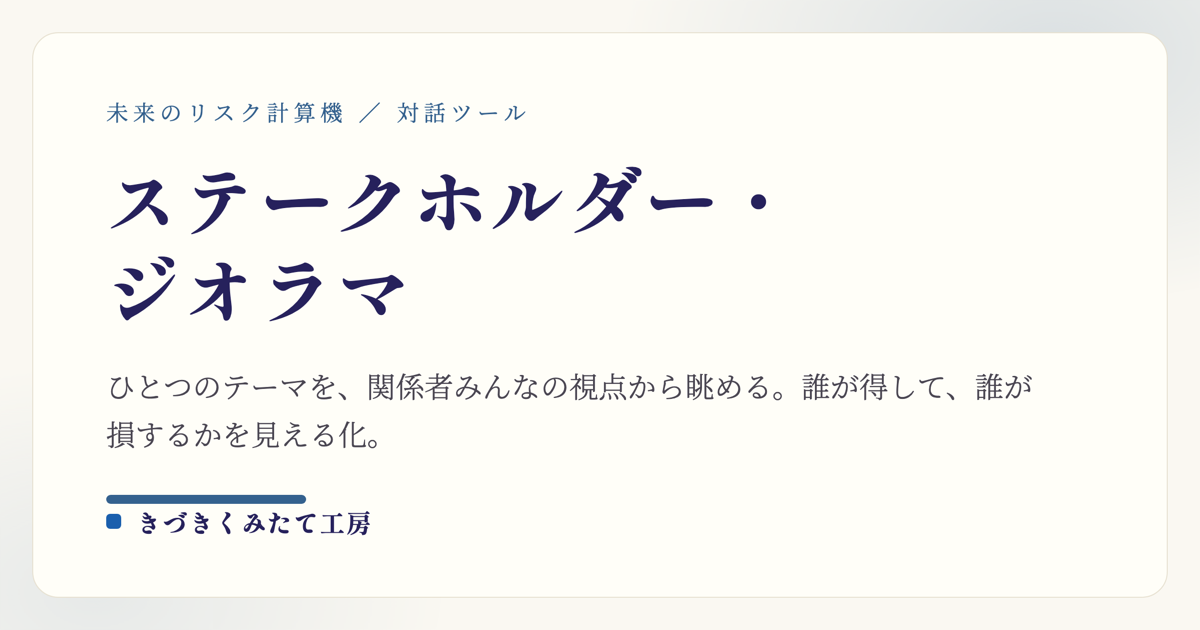
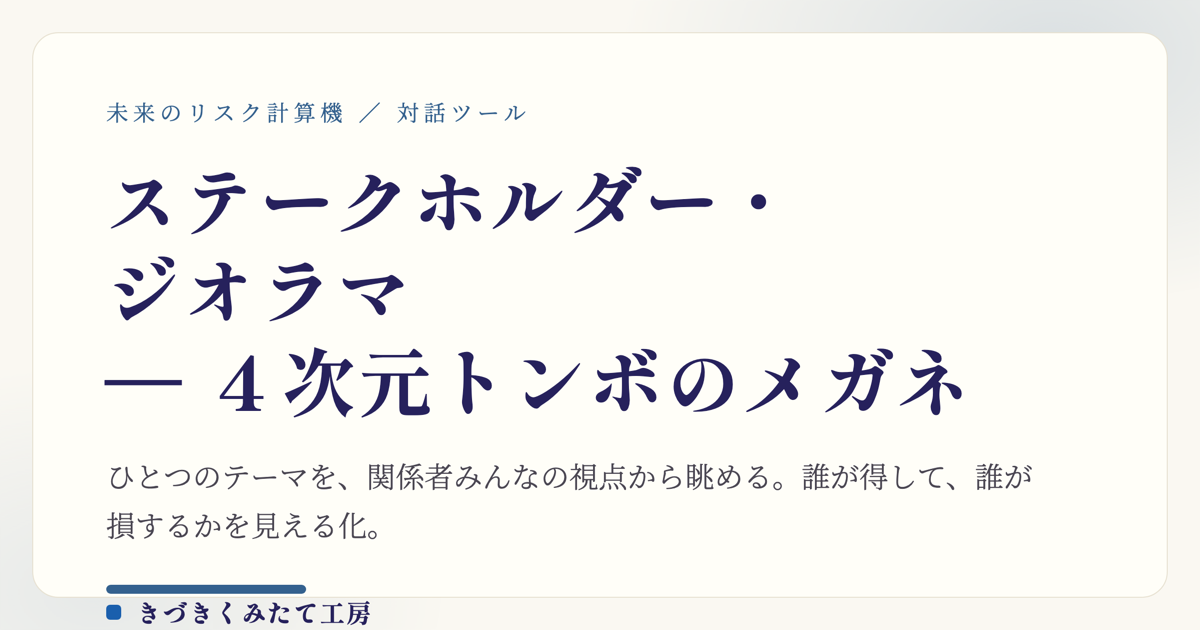
ジオラマ: はじめの画面にもどる導線を追加（未編集なら1押し・編集済みは2段階、Escで拠点→地球）。副題「４次元トンボのメガネ」をh1・title・OGPに追加

Changed region(s): [[0.0617, 0.5429, 0.8633, 0.8746], [0.3083, 0.7238, 0.8633, 0.7841], [0.0925, 0.9048, 0.3083, 0.9952]]

diff --git a/stakeholder-diorama.html b/stakeholder-diorama.html
@@ -11,15 +11,15 @@
 <meta charset="UTF-8">
 <meta name="viewport" content="width=device-width, initial-scale=1.0">
 <meta name="robots" content="noindex"><!-- 磨き込み中のテスト公開。サイトのナビ・sitemap・回遊からは外してある。正式リリース時にこの行を削除し、nav.json/kaiyu.json/sitemap.xml に再掲載する -->
-<title>ステークホルダー・ジオラマ｜きづきくみたて工房（テスト公開）</title>
+<title>ステークホルダー・ジオラマ ― ４次元トンボのメガネ｜きづきくみたて工房（テスト公開）</title>
 <meta name="description" content="ひとつのテーマを、みんなの視点から眺める道具。関係者を場に並べ、経済・環境・社会 × 短期・中期・長期のレンズで「誰が得して、誰が損するか」を可視化します。">
 <meta property="og:type" content="website">
-<meta property="og:title" content="ステークホルダー・ジオラマ（テスト公開）">
+<meta property="og:title" content="ステークホルダー・ジオラマ ― ４次元トンボのメガネ（テスト公開）">
 <meta property="og:description" content="ひとつのテーマを、みんなの視点から眺める道具。経済・環境・社会 × 短期・中期・長期のレンズで、誰が得して誰が損するかを可視化します。">
 <meta property="og:image" content="https://kizukikumitate.com/stakeholder-diorama-ogp.png">
 <meta property="og:url" content="https://kizukikumitate.com/stakeholder-diorama.html">
 <meta name="twitter:card" content="summary_large_image">
-<meta name="twitter:title" content="ステークホルダー・ジオラマ（テスト公開）">
+<meta name="twitter:title" content="ステークホルダー・ジオラマ ― ４次元トンボのメガネ（テスト公開）">
 <meta name="twitter:description" content="ひとつのテーマを、みんなの視点から眺める道具。">
 <meta name="twitter:image" content="https://kizukikumitate.com/stakeholder-diorama-ogp.png">
 <link rel="canonical" href="https://kizukikumitate.com/stakeholder-diorama.html">
@@ -47,6 +47,10 @@ body{
 /* ---- ヘッダー ---- */
 .head-row{display:flex; align-items:baseline; gap:10px; flex-wrap:wrap;}
 h1{margin:0; font-size:1.5rem; font-weight:900; letter-spacing:.01em;}
+.subtitle{
+  font-size:.62em; font-weight:800; color:var(--indigo); margin-left:.5em;
+  white-space:nowrap; letter-spacing:.02em;
+}
 .tagline{font-size:.8rem; color:var(--sub);}
 .badge-test{
   font-size:.72rem; font-weight:800; color:#8A6A1E;
@@ -72,6 +76,8 @@ h1{margin:0; font-size:1.5rem; font-weight:900; letter-spacing:.01em;}
 .sbtn.primary{background:var(--indigo); border-color:var(--indigo); color:#FFF;}
 .sbtn.gain{background:var(--gain); border-color:var(--gain); color:#FFF;}
 .sbtn.expand{background:#3E4E8E; border-color:#3E4E8E; color:#FFF;}
+.sbtn.back{background:#EAF1F7; border-color:var(--indigo); color:var(--indigo-dark);}
+.sbtn.back.armed{background:var(--yamabuki); border-color:var(--yamabuki); color:#5C4508;}
 .sbtn.danger{color:var(--loss);}
 .sbtn.danger.armed{background:var(--loss); border-color:var(--loss); color:#FFF;}
 .sbtn[disabled]{opacity:.45; cursor:default;}
@@ -301,6 +307,7 @@ td.who{font-weight:800; white-space:nowrap;}
 @media (max-width:768px){
   body{padding:14px 12px 56px;}
   h1{font-size:1.25rem;}
+  .subtitle{display:block; margin-left:0; font-size:.72em;}
   .badge-test{margin-left:0;}
   .ctl-right{margin-left:0;}
   .guide{padding:18px;}
@@ -324,7 +331,7 @@ body{padding-bottom:calc(var(--bar-h, 96px) + 26px);}
 
   <header>
     <div class="head-row">
-      <h1>ステークホルダー・ジオラマ</h1>
+      <h1>ステークホルダー・ジオラマ<span class="subtitle">― ４次元トンボのメガネ</span></h1>
       <span class="tagline">ひとつのテーマを、みんなの視点から眺める道具</span>
       <span class="head-actions">
         <span class="badge-test">🧪 テスト公開中</span>
@@ -1382,6 +1389,7 @@ const S = {
 };
 let confirmReset = false, confirmTimer = null, saveTimer = null;
 let barCollapsed = false, pendingCase = null, pendingTimer = null;
+let confirmHome = false, homeTimer = null;
 
 const $ = (id) => document.getElementById(id);
 const esc = (s) => String(s == null ? "" : s)
@@ -1835,7 +1843,7 @@ function renderStage() {
     const members = siteMembers(site.id);
     stage.className = "";
     stage.innerHTML = '<div class="site-row">' +
-      '<button type="button" class="sbtn" data-act="globe">🌍 地球にもどる</button>' +
+      '<button type="button" class="sbtn back" data-act="globe">← 🌍 地球にもどる</button>' +
       '<span class="site-name">📍 ' + esc(site.name) + "</span>" +
       '<span class="site-role" style="background:' + role.color + '">' + esc(role.label) + "</span></div>" +
       '<div class="stage-frame">' + fieldMarkup(site.field, members) + "</div>";
@@ -1886,7 +1894,12 @@ function renderActions() {
   const c = S.caseId && CASES[S.caseId] ? CASES[S.caseId] : null;
   const extra = c && c.extra ? c.extra : null;
   const extraPlaced = extra ? extra.stakeholders.every((x) => S.stakeholders.some((s) => s.name === x.name)) : true;
-  let out = '<button type="button" class="sbtn primary" data-act="add">＋ 関係者を追加</button>' +
+  let out = "";
+  if (S.caseId || S.stakeholders.length) {
+    out += '<button type="button" class="sbtn back' + (confirmHome ? " armed" : "") + '" data-act="home">' +
+      (confirmHome ? "もう一度押すともどります" : "↩ はじめの画面にもどる") + "</button>";
+  }
+  out += '<button type="button" class="sbtn primary" data-act="add">＋ 関係者を追加</button>' +
     '<button type="button" class="sbtn" data-act="share">🔗 この盤面をURLで共有</button>' +
     '<button type="button" class="sbtn" data-act="md">📋 Markdownをコピー</button>';
   if (extra && !extraPlaced && S.stakeholders.length) {
@@ -1906,6 +1919,7 @@ function renderActions() {
     else if (a === "md") exportMarkdown();
     else if (a === "expand") expandCase();
     else if (a === "reset") resetAll();
+    else if (a === "home") goHome();
   }));
 }
 
@@ -1925,8 +1939,8 @@ function renderCaseBar() {
     '<span class="case-bar-count">' + esc(count) + "</span>" +
     '<button type="button" class="sbtn" data-cb="prev">◀ 前</button>' +
     '<button type="button" class="sbtn primary" data-cb="next">次のケース ▶</button>' +
-    '<button type="button" class="sbtn danger' + (confirmReset ? " armed" : "") + '" data-cb="clear">' +
-    (confirmReset ? "もう一度押すと消去します" : "まっさらに戻す") + "</button>" +
+    '<button type="button" class="sbtn back' + (confirmHome ? " armed" : "") + '" data-cb="home">' +
+    (confirmHome ? "もう一度押すともどります" : "↩ はじめの画面") + "</button>" +
     '<button type="button" class="cb-toggle" data-cb="toggle" aria-expanded="' + (barCollapsed ? "false" : "true") +
     '" aria-label="ケース一覧の開閉">' + (barCollapsed ? "▲" : "▼") + "</button></div>" +
     '<div class="case-bar-list" id="caseBarList">' +
@@ -1941,7 +1955,7 @@ function renderCaseBar() {
     const a = b.getAttribute("data-cb");
     if (a === "prev") stepCase(-1);
     else if (a === "next") stepCase(1);
-    else if (a === "clear") resetAll();
+    else if (a === "home") goHome();
     else if (a === "toggle") { barCollapsed = !barCollapsed; renderCaseBar(); }
   }));
   scrollActiveChipIntoView();
@@ -2213,14 +2227,9 @@ function expandCase() {
   }
   renderStage(); renderActions(); renderPanel(); save();
 }
-function resetAll() {
-  if (!confirmReset) {
-    confirmReset = true; renderActions(); renderCaseBar();
-    clearTimeout(confirmTimer);
-    confirmTimer = setTimeout(() => { confirmReset = false; renderActions(); renderCaseBar(); }, 3000);
-    return;
-  }
-  confirmReset = false;
+function clearBoard(msg) {
+  confirmReset = false; confirmHome = false;
+  clearTimeout(confirmTimer); clearTimeout(homeTimer);
   S.theme = ""; S.stakeholders = []; S.data = {}; S.selectedId = null;
   S.business = ""; S.valueChain = null; S.themeIdeas = []; S.aiCandidates = [];
   S.caseId = null; S.scenario = null;
@@ -2229,7 +2238,34 @@ function resetAll() {
   history.replaceState(null, "", location.pathname);
   renderAll();
   window.scrollTo({ top: 0, behavior: "smooth" });
-  toast("まっさらに戻しました。下の帯から次のケースを選べます");
+  toast(msg);
+}
+/* すべて消去：手で書いた盤面も消えるので、いつでも2段階 */
+function resetAll() {
+  if (!confirmReset) {
+    confirmReset = true; renderActions(); renderCaseBar();
+    clearTimeout(confirmTimer);
+    confirmTimer = setTimeout(() => { confirmReset = false; renderActions(); renderCaseBar(); }, 3000);
+    return;
+  }
+  clearBoard("まっさらに戻しました。下の帯から次のケースを選べます");
+}
+/* はじめの画面（使い方ガイド）にもどる。
+   ケースを読み込んだだけの未編集の盤面なら、消えるものが無いので1押しで戻る。 */
+function goHome() {
+  if (!S.caseId && !S.stakeholders.length) {
+    if (S.view !== "field") { S.view = "field"; renderControls(); renderStage(); }
+    toast("いま、はじめの画面です");
+    return;
+  }
+  if (boardIsDirty() && !confirmHome) {
+    confirmHome = true; renderActions(); renderCaseBar();
+    clearTimeout(homeTimer);
+    homeTimer = setTimeout(() => { confirmHome = false; renderActions(); renderCaseBar(); }, 3000);
+    toast("記入した内容は消えます。もう一度押すと、はじめの画面にもどります");
+    return;
+  }
+  clearBoard("はじめの画面にもどりました");
 }
 
 /* ================= 進め方ガイド ================= */
@@ -2381,7 +2417,7 @@ async function shareUrl() {
       return;
     }
     if (navigator.share && /Android|iPhone|iPad/.test(navigator.userAgent)) {
-      try { await navigator.share({ title: "ステークホルダー・ジオラマ", url: url }); return; } catch (e) { /* 共有を閉じたら下のコピーへ */ }
+      try { await navigator.share({ title: "ステークホルダー・ジオラマ ― ４次元トンボのメガネ", url: url }); return; } catch (e) { /* 共有を閉じたら下のコピーへ */ }
     }
     toast(copyText(url) ? "✓ 共有URLをコピーしました。相手に送ると同じ盤面が開きます" : "URLをコピーできませんでした");
   } catch (e) {
@@ -2459,7 +2495,10 @@ async function generateFromBusiness() {
 
   $("guideBtn").addEventListener("click", openGuide);
   document.addEventListener("keydown", (e) => {
-    if (e.key === "Escape" && !$("guideModal").hidden) closeGuide();
+    if (e.key !== "Escape") return;
+    if (!$("guideModal").hidden) { closeGuide(); return; }
+    /* 拠点のなかにいるときは Esc で地球にもどる（盤面は消さない） */
+    if (S.currentSiteId) backToGlobe();
   });
 
   window.addEventListener("resize", syncBarSpace);
